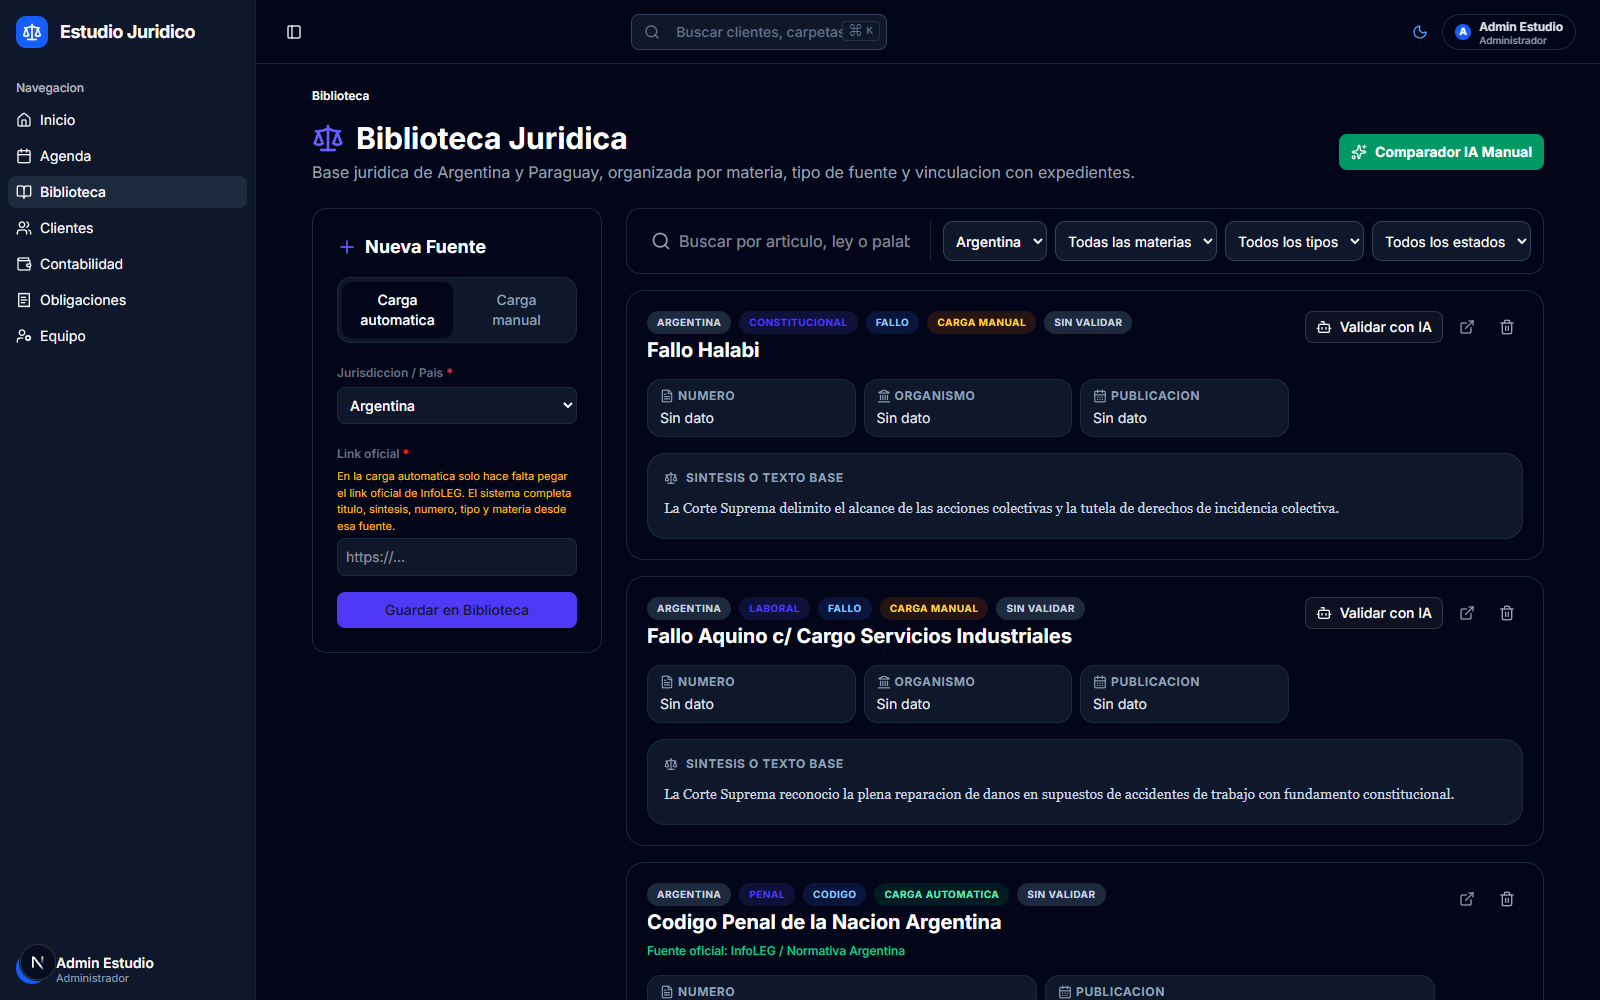
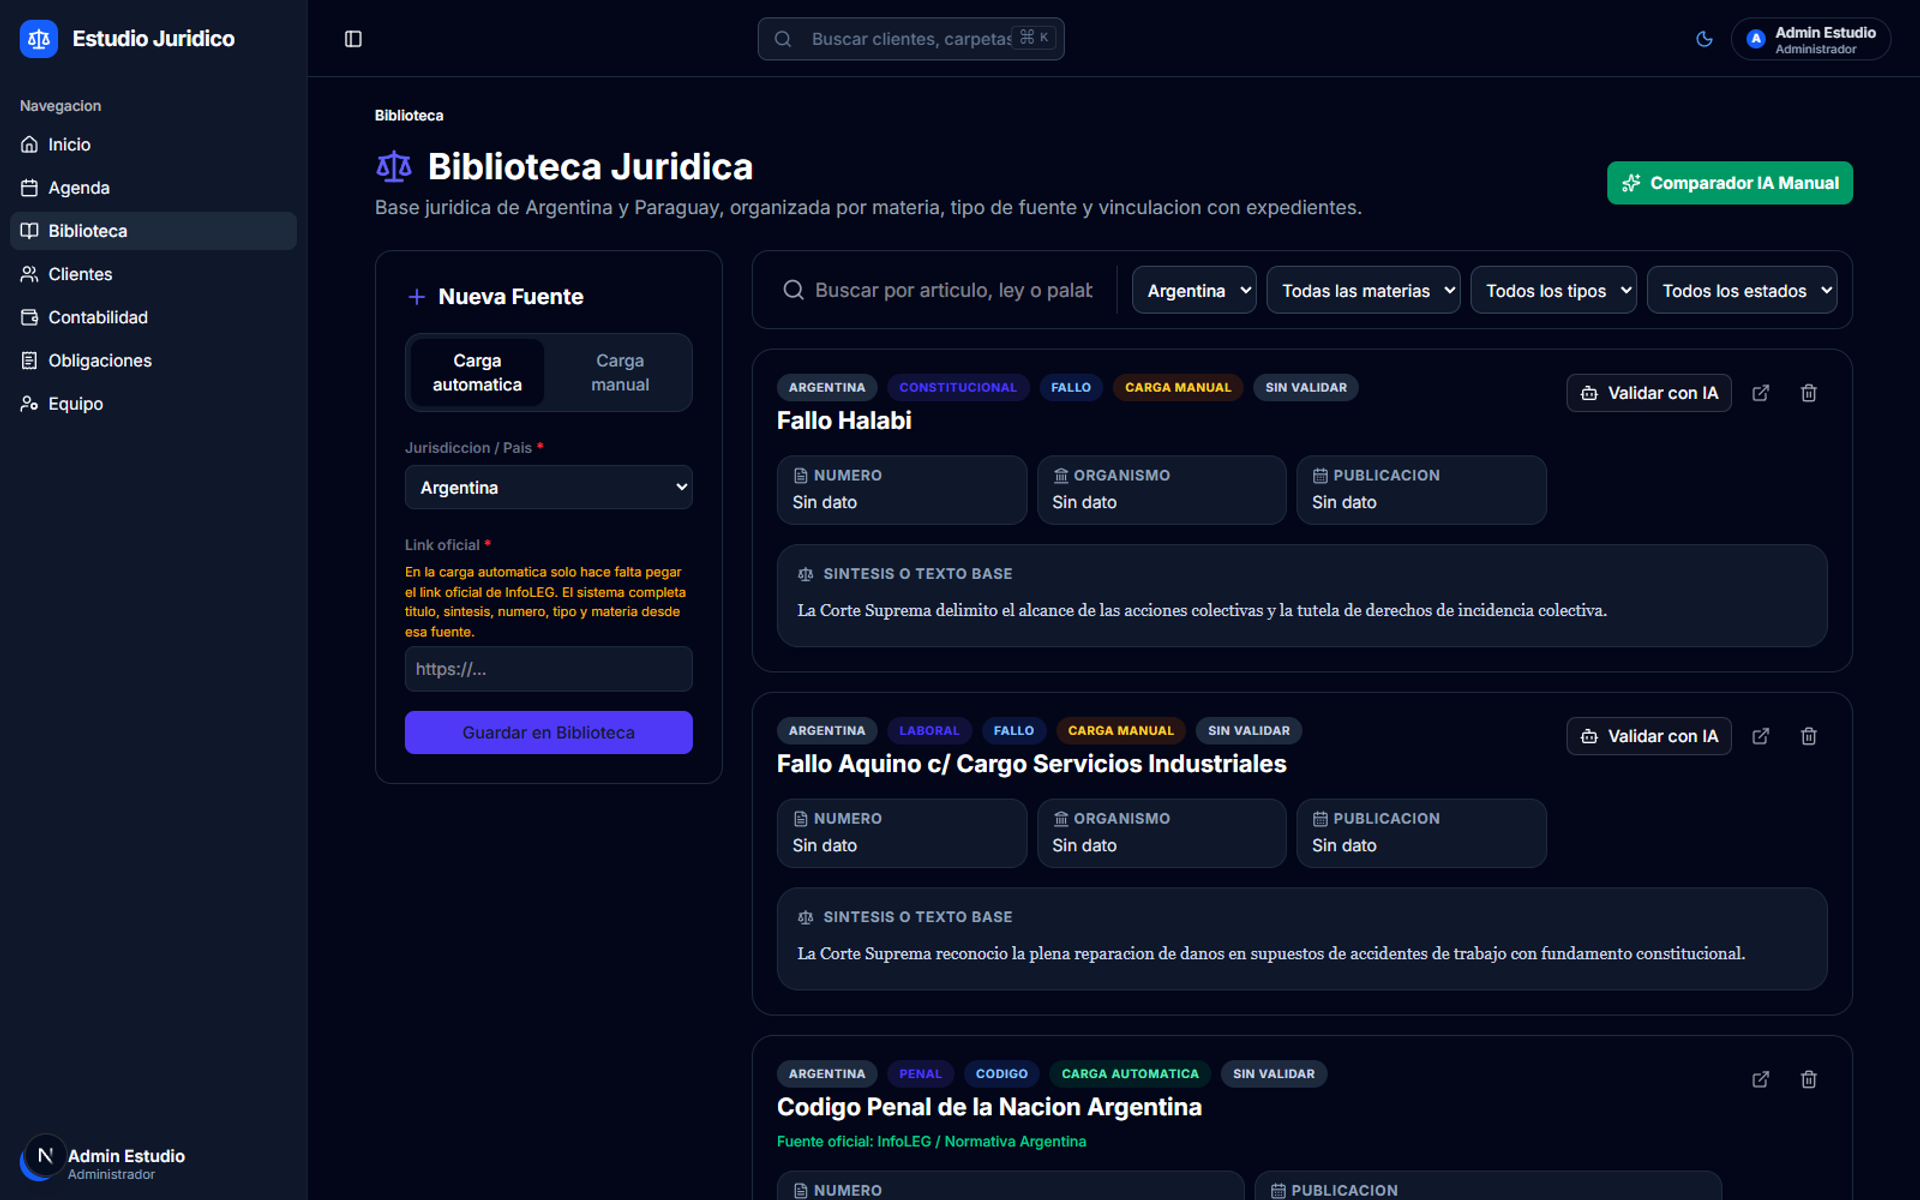
feat(proyectos): capturas nuevas de la clinica pediatrica y tamano estandar para todas
Las capturas pediatricas que estaban en el sitio eran de 1440x900 y con datos de
prueba mal cargados. Se reemplazan por 12 capturas nuevas de 1920x1200 sacadas
del repo `pediatric-clinic-erp` (landing + ERP + portal) con los datos del seed
demo: nunca datos reales de pacientes.

Estandar de capturas, para todos los proyectos
- Toda captura mide 1920x1200 (16:10, por encima de 1080p). Con todas iguales, la
  galeria y el mazo de /proyectos mantienen el mismo marco y el mismo alto al
  pasar de una a otra.
- Las 20 capturas de los otros proyectos (az-landing, leadscrm, legal, limpieza)
  se normalizaron al mismo tamano sin recortar: las que ya eran 16:10 se
  escalaron, y a las que no (1600x900, 1903x916, 1897x1027) se les completo el
  alto con el color promedio de su propio borde, asi el relleno se lee como
  continuacion del fondo. Ojo: la fuente de esas era de 1600 o 1900 px de ancho,
  asi que el detalle real no cambio, solo la medida.
- La galeria pide variantes de hasta 1920 (antes 1600) para que la captura llegue
  completa en pantallas de densidad alta.
- `docs/features/capturas.md` documenta el estandar, como capturar y de donde
  salen las pediatricas (incluidos los dos puertos que chocan en esta maquina).

Copy y stack de los dos casos, segun el README del repo
- Landing: el desafio pasa a ser el consultorio que abria sin sistema anterior y
  sin poder publicar la direccion exacta; la solucion suma las etapas del cuidado
[…]

diff --git a/src/lib/content.ts b/src/lib/content.ts
@@ -29,15 +29,18 @@ import leadsConfiguracion from "../assets/proyectos/leadscrm/03-configuracion.pn
 import leadsLogin from "../assets/proyectos/leadscrm/04-login.png";
 import leadsMetricas from "../assets/proyectos/leadscrm/05-metricas.png";
 import azLandingDesktop from "../assets/proyectos/az-landing/desktop.png";
-import pediatricLandingHero from "../assets/proyectos/pediatric/01-landing-hero.png";
-import pediatricDoctorJourney from "../assets/proyectos/pediatric/02-landing-doctor-journey.png";
-import pediatricTurnos from "../assets/proyectos/pediatric/03-landing-turnos.png";
-import pediatricFaq from "../assets/proyectos/pediatric/04-landing-faq-contact.png";
-import pediatricLogin from "../assets/proyectos/pediatric/05-erp-login.png";
-import pediatricDashboard from "../assets/proyectos/pediatric/06-erp-dashboard.png";
-import pediatricPatients from "../assets/proyectos/pediatric/07-erp-patients.png";
-import pediatricAppointments from "../assets/proyectos/pediatric/08-erp-appointments.png";
-import pediatricSettings from "../assets/proyectos/pediatric/09-erp-settings.png";
+import pediatricLandingHero from "../assets/proyectos/pediatric/landing-hero.png";
+import pediatricLandingJourney from "../assets/proyectos/pediatric/landing-journey.png";
+import pediatricLandingTestimonials from "../assets/proyectos/pediatric/landing-testimonials.png";
+import pediatricLandingBooking from "../assets/proyectos/pediatric/landing-booking.png";
+import pediatricErpDashboard from "../assets/proyectos/pediatric/erp-dashboard.png";
+import pediatricErpPortalRequests from "../assets/proyectos/pediatric/erp-portal-requests.png";
+import pediatricErpAppointments from "../assets/proyectos/pediatric/erp-appointments.png";
+import pediatricErpAppointmentDialog from "../assets/proyectos/pediatric/erp-appointment-dialog.png";
+import pediatricErpConsultations from "../assets/proyectos/pediatric/erp-consultations.png";
+import pediatricErpPatientRecord from "../assets/proyectos/pediatric/erp-patient-record.png";
+import pediatricPortalAppointments from "../assets/proyectos/pediatric/portal-appointments.png";
+import pediatricPortalContact from "../assets/proyectos/pediatric/portal-contact.png";
 import limpiezaAdmin1 from "../assets/proyectos/limpieza/admin1.png";
 import limpiezaAdmin2 from "../assets/proyectos/limpieza/admin2.png";
 import limpiezaAdmin3 from "../assets/proyectos/limpieza/admin3.png";
@@ -524,7 +527,7 @@ export const portfolio: {
       description:
         "Plataforma integral para clínica pediátrica: historia clínica conforme a la Ley 26.529, turnos, panel clínico en tiempo real y recetas en PDF.",
       href: "/proyectos/sistema-clinica-pediatrica",
-      image: pediatricDashboard,
+      image: pediatricErpDashboard,
       imageAlt: "Dashboard clínico del sistema pediátrico",
     },
     {
@@ -1121,64 +1124,93 @@ export const caseStudies: {
     seo: {
       title: "Página web para clínica pediátrica | misure",
       description:
-        "Sitio público para una clínica pediátrica: trayectoria médica, etapas del cuidado pediátrico, solicitud de turnos y contacto directo, optimizado para SEO.",
+        "Sitio público de una clínica pediátrica: la trayectoria de la profesional, las etapas del cuidado, los testimonios de las familias y el turno como cierre, con el contenido renderizado en el servidor.",
     },
     eyebrow: "Caso de estudio",
     title: "Página web para clínica pediátrica",
     client: "Clínica pediátrica",
-    location: "Argentina",
+    location: "Pueblo Esther, Santa Fe",
     category: "Página Web",
-    technologies: ["Astro", "React", "Tailwind CSS"],
+    technologies: ["Astro", "React", "Tailwind CSS", "TypeScript"],
     gallery: [
-      { src: pediatricLandingHero, alt: "Portada de la landing con la autoridad médica" },
-      { src: pediatricDoctorJourney, alt: "Trayectoria médica y etapas del cuidado pediátrico" },
-      { src: pediatricTurnos, alt: "Flujo de solicitud de turnos" },
-      { src: pediatricFaq, alt: "Preguntas frecuentes y contacto" },
+      {
+        src: pediatricLandingHero,
+        alt: "Portada del sitio con la propuesta de la pediatra y los dos accesos, sacar turno y entrar al portal",
+      },
+      {
+        src: pediatricLandingJourney,
+        alt: "Las etapas del cuidado, de la preconcepción a la adolescencia",
+      },
+      {
+        src: pediatricLandingTestimonials,
+        alt: "Testimonios de familias, con la trayectoria de la clínica arriba",
+      },
+      {
+        src: pediatricLandingBooking,
+        alt: "El cierre del recorrido: la invitación a sacar turno apunta al portal de pacientes",
+      },
     ],
     problem: {
       eyebrow: "El desafío",
-      title: "La autoridad médica no se veía desde afuera",
+      title: "Un consultorio que abría tenía que estar online desde el primer día",
       body: [
-        "El consultorio pediátrico necesitaba una presencia pública que comunicara su trayectoria y especialidad, y que funcionara como canal de contacto para las familias.",
-        "La información clave (trayectoria del profesional, etapas del cuidado pediátrico, horarios y ubicación) no tenía un lugar único donde consultarse.",
-        "Las consultas de turnos llegaban por canales dispersos, sin un flujo ordenado que le dejara a la clínica los datos necesarios para responder.",
+        "La clínica abría sin pacientes todavía, sin sistema anterior y sin costumbres que respetar. Parece una ventaja, pero es una decisión: si el canal público no se piensa desde el principio, después se parchea durante años.",
+        "La atención se da en un domicilio particular, así que el sitio no podía publicar la dirección exacta: se muestra la ciudad y el resto se libera recién con una cuenta registrada.",
+        "Las familias tenían que poder reservar sin llamar por teléfono, y el sitio tenía que transmitir la autoridad de la profesional y su mirada de seguimiento a lo largo de las etapas.",
       ],
     },
     solution: {
       eyebrow: "La solución",
-      title: "Un sitio público claro, optimizado para SEO y orientado a turnos",
+      title: "Un sitio que presenta a la profesional y cierra en el turno",
       features: [
         {
           title: "Autoridad médica como eje",
           description:
-            "La portada presenta al profesional y su trayectoria, con las etapas del cuidado pediátrico desde la preconcepción hasta la adolescencia.",
+            "La portada presenta a la pediatra y su enfoque: la misma profesional en cada etapa, de la preconcepción a la adolescencia.",
         },
         {
-          title: "Flujo de solicitud de turnos",
+          title: "Etapas del cuidado con una pieza interactiva",
           description:
-            "Un formulario de solicitud de turnos ordena la consulta y reúne los datos que la clínica necesita antes de responder, en lugar de mensajes sueltos.",
+            "Las cinco etapas del cuidado se recorren en un abanico interactivo en escritorio y en un carrusel con ajuste en mobile: el mismo contenido con otra composición según el ancho.",
         },
         {
-          title: "FAQ y contacto directo",
+          title: "El turno cierra el recorrido",
           description:
-            "Preguntas frecuentes, horarios, ubicación y canales de contacto directo, todo en un mismo lugar y sin fricción.",
+            "Cada sección termina apuntando al portal de pacientes, donde la familia ve la disponibilidad y pide su turno. La solicitud cae en la cola de confirmación de la clínica.",
         },
         {
-          title: "Rendimiento y SEO",
+          title: "Privacidad desde el arranque",
           description:
-            "Sitio estático con generación optimizada y contenido pensado para buscadores, para que las familias encuentren la clínica y lleguen al turno.",
+            "El sitio publica la ciudad. La ubicación exacta se libera sólo adentro del portal, con la cuenta de la familia.",
+        },
+        {
+          title: "Casi sin JavaScript",
+          description:
+            "El sitio se renderiza en el servidor y sólo las piezas interactivas viajan como islas de React, así que pesa poco y carga rápido en el teléfono.",
         },
       ],
     },
     results: {
       eyebrow: "Resultados",
-      title: "Funcionalidades entregadas; métricas de negocio pendientes.",
+      title: "Publicado y en uso, con el turno como cierre de cada sección.",
       metrics: [
         {
-          value: "[PENDIENTE]",
-          unit: "métricas de resultado",
+          value: "0",
+          unit: "JS por defecto",
           label:
-            "No contamos aún con cifras de consultas o conversión. Completar con datos reales cuando los tengas.",
+            "el contenido se renderiza en el servidor y sólo lo interactivo viaja como isla de React",
+        },
+        {
+          value: "1",
+          unit: "pediatra",
+          label:
+            "la misma profesional en cada etapa, de la preconcepción a la adolescencia",
+        },
+        {
+          value: "Ciudad",
+          unit: "publicada",
+          label:
+            "la ubicación exacta se libera recién con la cuenta registrada de la familia",
         },
       ],
     },
@@ -1194,72 +1226,118 @@ export const caseStudies: {
     seo: {
       title: "Sistema de gestión clínica pediátrica | misure",
       description:
-        "ERP clínico y portal de pacientes para una clínica pediátrica: historia clínica conforme a la Ley 26.529, turnos, recetas en PDF y autenticación segura.",
+        "ERP clínico y portal de pacientes para una clínica pediátrica: historia clínica trazable conforme a la Ley 26.529, turnos que se confirman en una cola, recetas en PDF y accesos por rol.",
     },
     eyebrow: "Caso de estudio",
     title: "ERP clínico y portal de pacientes para clínica pediátrica",
     client: "Clínica pediátrica",
-    location: "Argentina",
+    location: "Pueblo Esther, Santa Fe",
     category: "Gestión (ERP)",
     technologies: [
       "Next.js",
       "NestJS",
       "PostgreSQL",
       "Prisma",
+      "Zod",
       "Tailwind CSS",
+      "TypeScript",
       "Turborepo",
     ],
     gallery: [
-      { src: pediatricDashboard, alt: "Dashboard clínico con el embudo de pacientes del día" },
-      { src: pediatricPatients, alt: "Directorio de pacientes pediátricos" },
-      { src: pediatricAppointments, alt: "Agenda de turnos del consultorio" },
-      { src: pediatricSettings, alt: "Configuración de la clínica y recetas" },
-      { src: pediatricLogin, alt: "Login seguro del ERP clínico" },
+      {
+        src: pediatricErpDashboard,
+        alt: "Panel del día: el embudo de turnos, las evoluciones pendientes y la tabla de turnos de hoy",
+      },
+      {
+        src: pediatricErpPortalRequests,
+        alt: "Solicitudes de turno hechas desde el portal de familias, esperando la confirmación de la clínica",
+      },
+      {
+        src: pediatricErpAppointments,
+        alt: "Agenda con paciente, tutor, motivo, profesional y estado",
+      },
+      {
+        src: pediatricErpAppointmentDialog,
+        alt: "Nuevo turno: los selectores de fecha y hora sólo ofrecen los horarios que están libres",
+      },
+      {
+        src: pediatricErpConsultations,
+        alt: "Consultas del día con el panel de la consulta embebido: contexto, evoluciones y receta",
+      },
+      {
+        src: pediatricErpPatientRecord,
+        alt: "Historia clínica: datos, antecedentes perinatales y cobertura junto a la línea de evoluciones",
+      },
+      {
+        src: pediatricPortalAppointments,
+        alt: "Portal de familias: próximo turno, pedido de turno nuevo y contacto",
+      },
+      {
+        src: pediatricPortalContact,
+        alt: "Contacto y ubicación: la dirección exacta aparece recién con la sesión iniciada",
+      },
     ],
     problem: {
       eyebrow: "El desafío",
-      title: "Gestionar pacientes pediátricos exige más que una agenda de turnos",
+      title: "Historia clínica, turnos y privacidad: tres decisiones que no se parchean",
       body: [
-        "Un consultorio pediátrico no maneja un solo paciente: maneja niños con tutores legales (padre, madre o responsable), obra social y datos clínicos que deben conservarse durante años.",
-        "La historia clínica está alcanzada por la Ley 26.529 de registros médicos: no se puede borrar información clínica ni dejar acciones sin trazabilidad. Un sistema genérico no contempla esa exigencia.",
-        "El consultorio necesitaba centralizar en una sola herramienta la gestión de pacientes, turnos, historia clínica, recetas y obligaciones, sin depender de planillas sueltas ni de un software que no contemplara su forma de trabajar.",
+        "La clínica abría sin pacientes y sin sistema anterior: no había nada que migrar, pero tampoco ninguna costumbre que corrigiera el diseño. Si el registro clínico o el canal de turnos nacían flojos, se iban a parchear durante años.",
+        "La Ley 26.529 pide registros trazables: quién escribió, cuándo y qué cambió. Eso no se resuelve con una política escrita, se resuelve en el modelo de datos.",
+        "Y como la atención se da en un domicilio, la ubicación exacta no puede quedar publicada: se libera sólo para las familias con cuenta.",
       ],
     },
     solution: {
       eyebrow: "La solución",
-      title: "Un ERP clínico a medida, con API propia y portal de pacientes",
+      title: "Un ERP clínico con API propia, portal de familias y sitio público",
       features: [
         {
-          title: "Panel clínico en tiempo real",
+          title: "El cumplimiento va en el modelo, no en una política",
           description:
-            "El equipo ve el embudo de pacientes del día, la sala de espera, la asistencia, las evoluciones pendientes de firma y los próximos turnos en un solo tablero.",
+            "Cada entidad clínica tiene baja lógica obligatoria y cada escritura queda en un registro de auditoría que sólo se agrega: nada se borra físicamente y todo cambio es atribuible.",
         },
         {
-          title: "Historia clínica conforme a la Ley 26.529",
+          title: "El turno se cierra sin llamar por teléfono",
           description:
-            "Cada acción clínica queda registrada en un historial de auditoría inmutable, con autor, fecha y detalle del cambio. Nada se borra: las entidades clínicas usan baja lógica y la jerarquía de tutores queda modelada.",
+            "La familia ve la disponibilidad y pide el turno desde el portal. La solicitud entra a una cola de confirmación y, al confirmarla, pasa a la agenda como turno agendado.",
         },
         {
-          title: "Recetas en PDF y configuración de la clínica",
+          title: "Una pantalla por trabajo",
           description:
-            "Un generador dinámico de recetas en PDF incorpora los datos de la clínica, el profesional y su matrícula. La configuración permite ajustar licencias, especialidad y encabezados sin tocar código.",
+            "Correr el día, documentar una consulta y pedir un turno son tareas distintas: el panel del equipo, el portal de familias y el sitio público son superficies separadas sobre la misma API y los mismos tokens de diseño.",
         },
         {
-          title: "Seguridad y control de acceso",
+          title: "Recetas como documentos",
           description:
-            "Una API propia con roles diferenciados y autenticación de servidor mediante cookies httpOnly, sin exponer tokens al navegador. Cada usuario accede solo a lo que le corresponde.",
+            "La receta se emite en PDF desde la historia clínica, con los datos de la clínica, del profesional y su matrícula.",
+        },
+        {
+          title: "Seguridad por defecto y sesiones revocables",
+          description:
+            "Un guard global de JWT y permisos por cinco roles: el alta pública sólo puede crear pacientes, las cuentas del equipo las crea un administrador, y cada pedido revalida el token contra la base, así que una cuenta dada de baja deja de funcionar al instante.",
         },
       ],
     },
     results: {
       eyebrow: "Resultados",
-      title: "Funcionalidades entregadas; métricas de negocio pendientes.",
+      title: "En producción desde antes del primer paciente.",
       metrics: [
         {
-          value: "[PENDIENTE]",
-          unit: "métricas de resultado",
+          value: "3",
+          unit: "superficies",
           label:
-            "No contamos aún con cifras de ahorro o de tiempo. Completar con datos reales cuando los tengas.",
+            "panel del equipo, portal de familias y sitio público, con la misma API y los mismos tokens",
+        },
+        {
+          value: "5",
+          unit: "roles",
+          label:
+            "el alta pública sólo crea pacientes y cada persona ve lo que le corresponde",
+        },
+        {
+          value: "26.529",
+          unit: "Ley",
+          label:
+            "trazabilidad en el modelo de datos: baja lógica y auditoría que sólo se agrega",
         },
       ],
     },

diff --git a/docs/features/capturas.md b/docs/features/capturas.md
@@ -1,0 +1,56 @@
+# Capturas de pantalla
+
+## El estándar
+
+Toda captura que se muestre en el sitio (galería de un caso, mazo de
+`/proyectos`, portada de un caso) mide **1920x1200** y es un PNG. Es 16:10, la
+proporción que ya usaba la mayoría de las capturas anteriores (1440x900,
+1600x1000), y deja la resolución por encima de 1080p.
+
+Con todas en la misma medida, la galería y el mazo no cambian de tamaño al pasar
+de una a otra: el carrusel mantiene el mismo marco y el mismo alto, y los casos
+se leen parejos. No hay que recortar ni estirar nada en el layout porque la
+uniformidad la garantizan los archivos.
+
+## Cómo se hace una captura nueva
+
+1. Se captura con el navegador a **1920x1200 de ventana**, con
+   `reducedMotion: 'reduce'` (las animaciones ensucian el cuadro) y esperando las
+   fuentes y los datos: `document.fonts.ready` más alrededor de un segundo.
+2. Las secciones que no ocupan la pantalla entera también se capturan como **vista
+   de 1920x1200**, con el elemento alineado arriba y el chrome fijo (navbar
+   flotante, botón de WhatsApp) oculto. Así toda captura es "lo que se ve en una
+   ventana de 1920x1200" y ninguna necesita recorte ni bandas: por ejemplo el
+   cierre de un caso, que mide 525px de alto, se captura con lo que lo rodea.
+3. Si una captura vieja no es 16:10 (1600x900, 1903x916), se normaliza **sin
+   recortar**: se escala entera dentro de 1920x1200 y lo que falta se rellena con
+   el color promedio del borde correspondiente de la propia imagen, así el relleno
+   se lee como continuación del fondo y nunca se pierde contenido de la interfaz.
+
+El script de normalización usa `sharp`: `resize(1920, 1200, { fit: 'inside' })` y
+después `extend` con el color del borde de arriba, abajo, izquierda o derecha
+según lo que falte.
+
+## De dónde salen las capturas pediátricas
+
+Del repo `pediatric-clinic-erp`:
+
+```
+docker compose up -d postgres
+pnpm --filter @pediatric-erp/db db:migrate:deploy
+pnpm --filter @pediatric-erp/db db:seed
+pnpm --filter @pediatric-erp/api dev            # 3001
+pnpm --filter @pediatric-erp/web exec next dev -p 3100
+pnpm --filter @pediatric-erp/landing dev -- --port 4322
+```
+
+Después, un pase de captura con Playwright: el repo trae el suyo en
+`apps/web/playwright.screenshots.config.ts` y sirve como referencia del flujo
+(login con `ricardo.silva@pediatric-erp.com` / `admin123`, las rutas de cada
+pantalla y los `data-testid` que hay que esperar). Los datos son los del seed
+demo: nunca datos reales de pacientes.
+
+Dos puertos que chocan en esta máquina: la base del repo necesita el 5432 (lo
+ocupa el postgres del notes-app) y la landing asume el 4321 (lo ocupa el dev
+server de misura-web). Por eso la captura se corre con la base del notes-app
+detenida y la landing en 4322.
